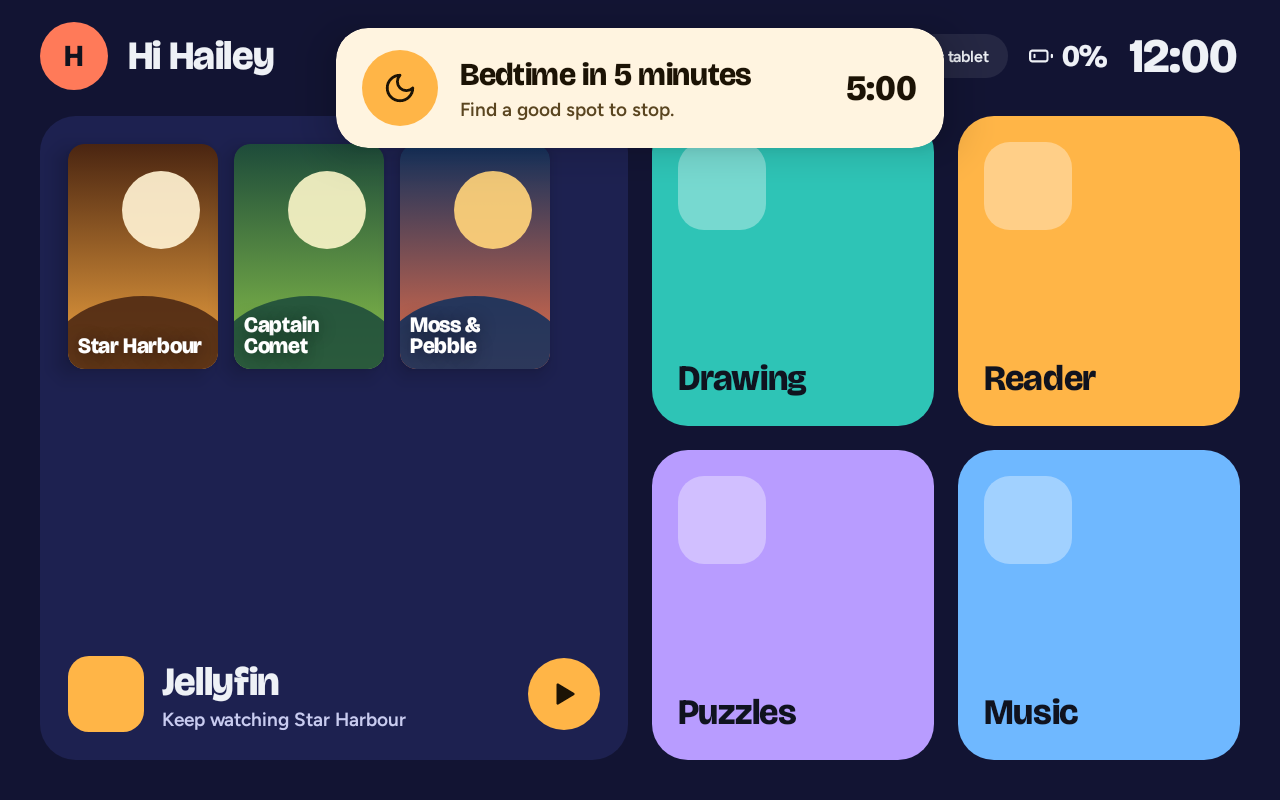
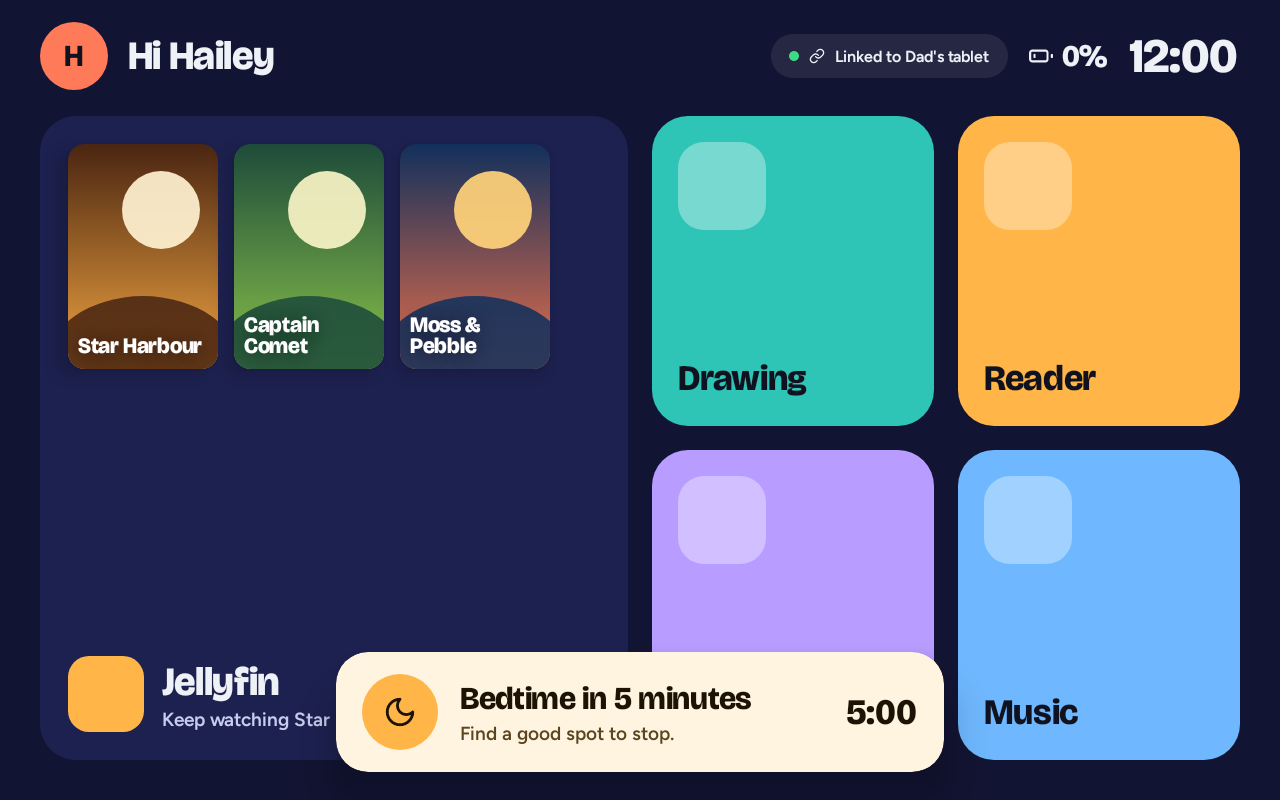
node: bedtime toast moves to the bottom, paused Together shows the movie title

Changed region(s): [[0.25, 0.8125, 0.75, 0.9688], [0.25, 0.0312, 0.75, 0.1875]]

diff --git a/app/src/main/java/com/nbaltas/nickos/ui/node/TogetherPlayer.kt b/app/src/main/java/com/nbaltas/nickos/ui/node/TogetherPlayer.kt
@@ -4,7 +4,9 @@ import android.app.Activity
 import android.view.WindowManager
 import androidx.activity.compose.BackHandler
 import androidx.compose.foundation.background
+import androidx.compose.foundation.layout.Arrangement
 import androidx.compose.foundation.layout.Box
+import androidx.compose.foundation.layout.Column
 import androidx.compose.foundation.layout.fillMaxSize
 import androidx.compose.foundation.layout.fillMaxWidth
 import androidx.compose.foundation.layout.padding
@@ -36,6 +38,7 @@ import com.nbaltas.nickos.node.PlayerUi
 import com.nbaltas.nickos.sync.SyncState
 import com.nbaltas.nickos.ui.theme.C
 import com.nbaltas.nickos.ui.theme.NodePalette
+import com.nbaltas.nickos.ui.theme.body
 import com.nbaltas.nickos.ui.theme.disp
 import com.nbaltas.nickos.ui.theme.tap
 import kotlinx.coroutines.delay
@@ -95,13 +98,20 @@ fun TogetherScreen(ui: PlayerUi, player: Player?, parent: String, onHold: () -> 
 
         if (message != null) {
             Box(Modifier.fillMaxWidth().padding(top = 28.dp), contentAlignment = Alignment.TopCenter) {
-                Box(
-                    Modifier.widthIn(max = 640.dp)
-                        .shadow(24.dp, RoundedCornerShape(32.dp))
-                        .clip(RoundedCornerShape(32.dp)).background(NodePalette.toastBg)
-                        .padding(horizontal = 26.dp, vertical = 22.dp),
-                ) {
-                    Text(message, style = disp(28.sp), color = C.onAccent, textAlign = TextAlign.Center)
+                Column(horizontalAlignment = Alignment.CenterHorizontally, verticalArrangement = Arrangement.spacedBy(14.dp)) {
+                    Box(
+                        Modifier.widthIn(max = 640.dp)
+                            .shadow(24.dp, RoundedCornerShape(32.dp))
+                            .clip(RoundedCornerShape(32.dp)).background(NodePalette.toastBg)
+                            .padding(horizontal = 26.dp, vertical = 22.dp),
+                    ) {
+                        Text(message, style = disp(28.sp), color = C.onAccent, textAlign = TextAlign.Center)
+                    }
+                    // So the kid knows what is coming back while the picture is still black.
+                    if (!tapMessage && ui.title.isNotBlank() && (ui.state == SyncState.PAUSED || ui.state == SyncState.LOCKED)) {
+                        Text(ui.title, style = body(22.sp, 600), color = NodePalette.soft, textAlign = TextAlign.Center,
+                            modifier = Modifier.widthIn(max = 640.dp))
+                    }
                 }
             }
         }

diff --git a/app/src/main/java/com/nbaltas/nickos/ui/node/NodeUi.kt b/app/src/main/java/com/nbaltas/nickos/ui/node/NodeUi.kt
@@ -8,6 +8,9 @@ import androidx.compose.foundation.gestures.awaitEachGesture
 import androidx.compose.foundation.gestures.awaitFirstDown
 import androidx.compose.foundation.gestures.waitForUpOrCancellation
 import androidx.compose.foundation.layout.Arrangement
+import androidx.compose.foundation.layout.WindowInsets
+import androidx.compose.foundation.layout.navigationBars
+import androidx.compose.foundation.layout.windowInsetsPadding
 import androidx.compose.foundation.layout.Box
 import androidx.compose.foundation.layout.BoxWithConstraints
 import androidx.compose.foundation.layout.Column
@@ -360,7 +363,10 @@ fun LockedScreen(store: Store, by: String?) {
 
 @Composable
 fun BedtimeToast(secondsLeft: Int) {
-    Box(Modifier.fillMaxWidth().padding(top = 28.dp), contentAlignment = Alignment.TopCenter) {
+    Box(
+        Modifier.fillMaxSize().windowInsetsPadding(WindowInsets.navigationBars).padding(bottom = 28.dp),
+        contentAlignment = Alignment.BottomCenter,
+    ) {
         Row(
             Modifier.widthIn(max = 640.dp).fillMaxWidth().padding(horizontal = 16.dp).shadow(24.dp, RoundedCornerShape(32.dp))
                 .clip(RoundedCornerShape(32.dp)).background(NodePalette.toastBg).padding(horizontal = 26.dp, vertical = 22.dp),

diff --git a/app/src/main/java/com/nbaltas/nickos/node/NodeOverlay.kt b/app/src/main/java/com/nbaltas/nickos/node/NodeOverlay.kt
@@ -73,7 +73,7 @@ class NodeOverlay(private val ctx: Context, private val store: Store, private va
         }
         val lp = WindowManager.LayoutParams(
             WindowManager.LayoutParams.MATCH_PARENT,
-            if (fullScreen) WindowManager.LayoutParams.MATCH_PARENT else WindowManager.LayoutParams.WRAP_CONTENT,
+            WindowManager.LayoutParams.MATCH_PARENT, // the toast anchors itself to the bottom of this untouchable window
             WindowManager.LayoutParams.TYPE_APPLICATION_OVERLAY,
             flags,
             PixelFormat.TRANSLUCENT,
